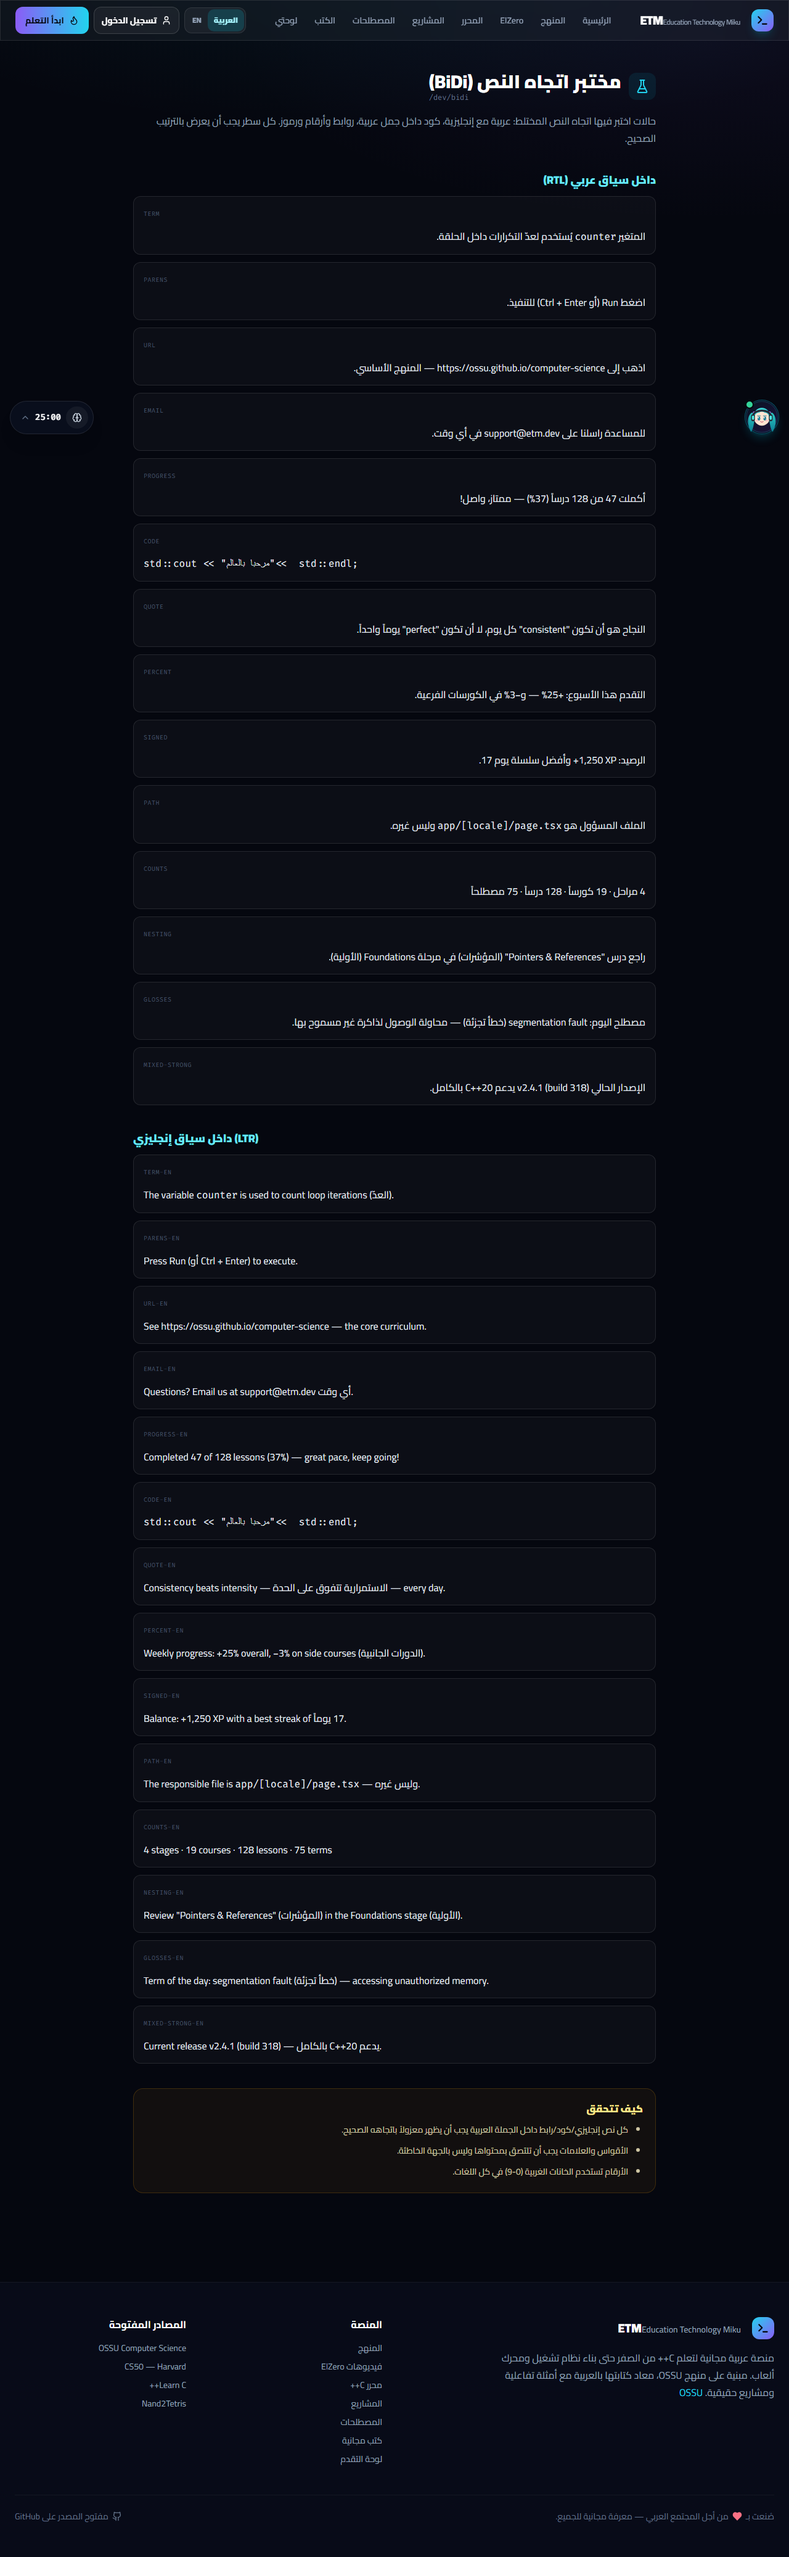
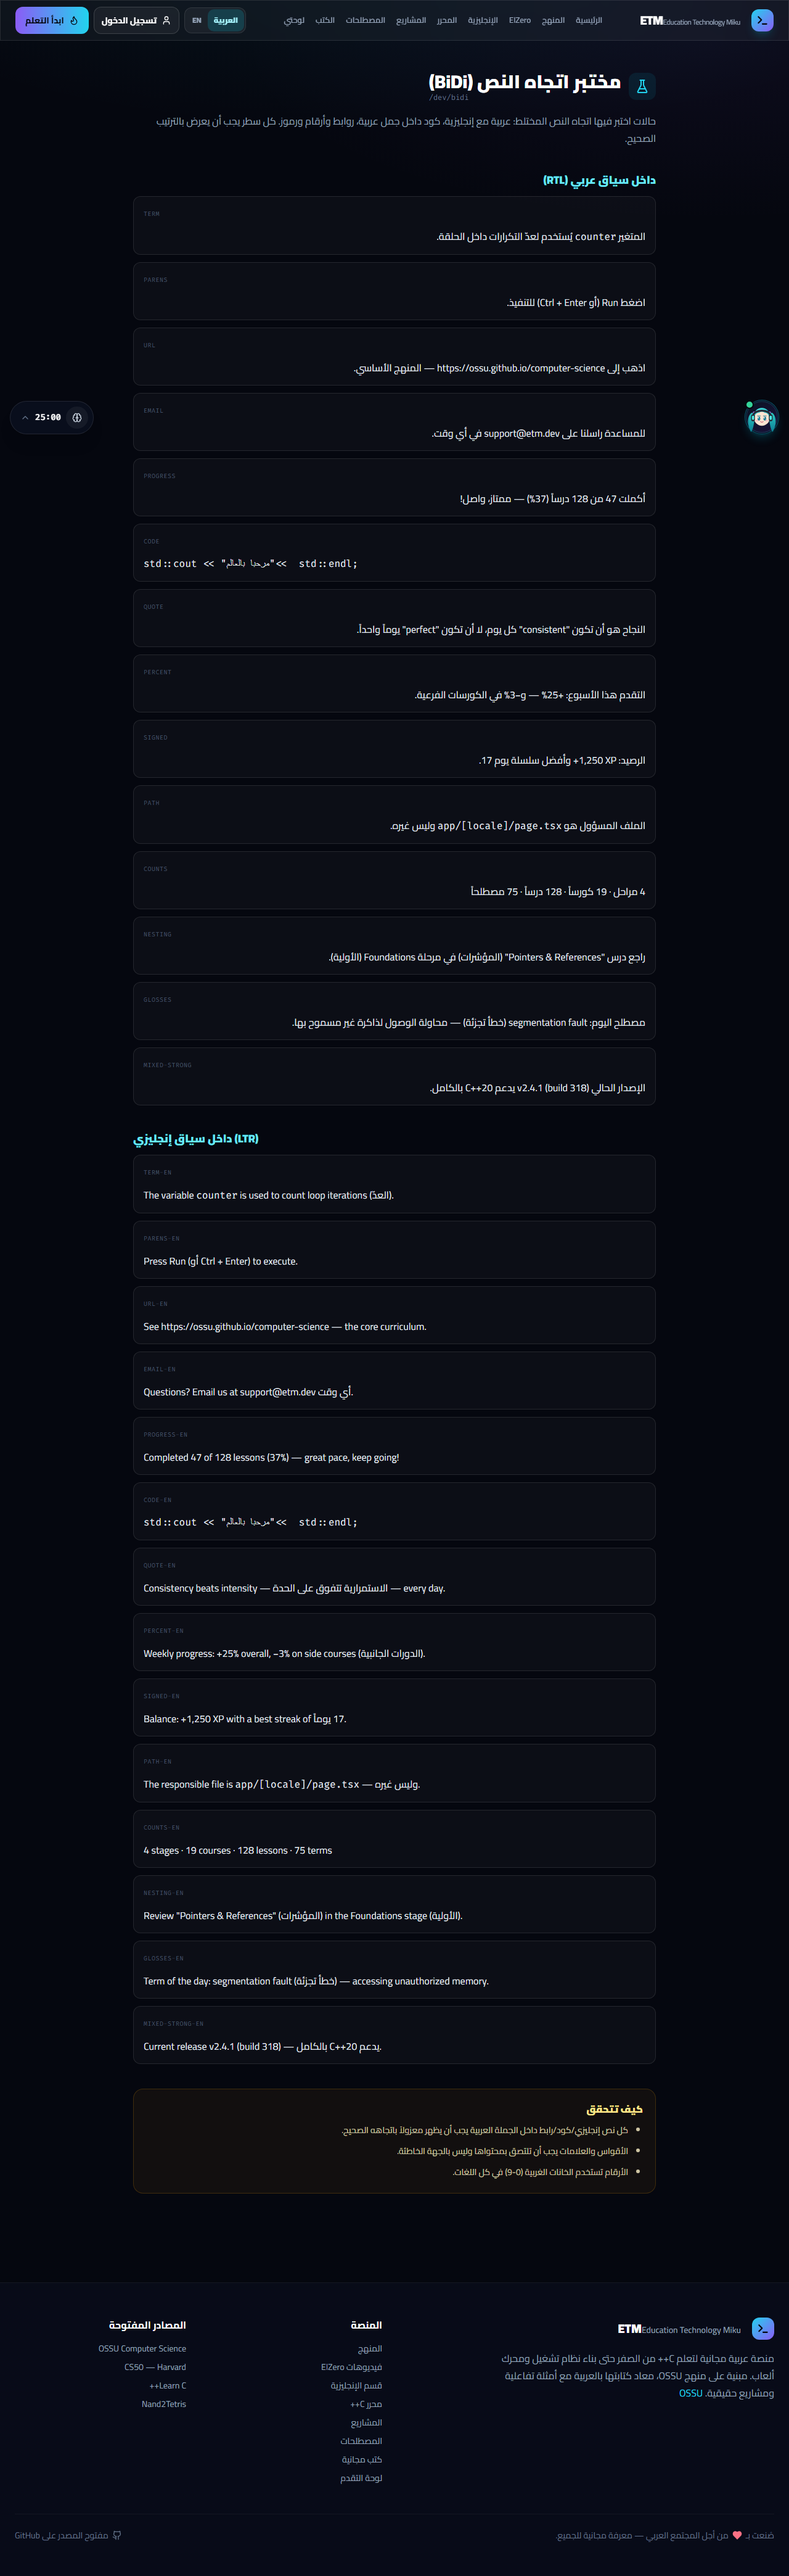
test(english): SRS unit tests, e2e coverage, a11y routes, wiped notes
11 new Leitner derivations cases (39/39 total), e2e spec for the nav
entry, hub (ar+en), review empty state; a11y spec now covers
/english and /english/review; delete-my-data test seeds and asserts
etm-english-notes-v1 is wiped; bidi screenshots regenerated with the
updated header/footer.

diff --git a/tests/unit/srs.test.ts b/tests/unit/srs.test.ts
@@ -1,0 +1,143 @@
+import { test } from "node:test";
+import assert from "node:assert/strict";
+import {
+  deriveSrs,
+  normalizeTerm,
+  srsDueCount,
+  SRS_INTERVALS,
+  SRS_MAX_BOX,
+} from "../../lib/english/srs.ts";
+import type { ProgressEvent } from "../../lib/progress/core.ts";
+
+let counter = 0;
+function event(partial: Partial<ProgressEvent> & Pick<ProgressEvent, "track" | "type" | "at">): ProgressEvent {
+  counter += 1;
+  return {
+    id: `e${counter}`,
+    v: 2,
+    payload: {},
+    ...partial,
+  };
+}
+
+const review = (at: string, term: string, known: boolean): ProgressEvent =>
+  event({
+    track: "english",
+    type: "term_review",
+    itemId: "001",
+    topic: "en-zero",
+    at,
+    payload: { term, known },
+  });
+
+const DAY = "2026-11-11";
+const iso = (dayKey: string, time = "12:00:00.000Z") => `${dayKey}T${time}`;
+
+test("normalizeTerm trims and collapses whitespace", () => {
+  assert.equal(normalizeTerm("  hello   world  "), "hello world");
+  assert.equal(normalizeTerm("\tnewline\n\ntest\t"), "newline test");
+  assert.equal(normalizeTerm(""), "");
+});
+
+test("empty history: nothing due, nothing seen", () => {
+  const s = deriveSrs([], DAY);
+  assert.equal(s.dueCount, 0);
+  assert.equal(s.seenTerms, 0);
+  assert.equal(s.terms.length, 0);
+});
+
+test("unrelated tracks and event types are ignored", () => {
+  const s = deriveSrs(
+    [
+      review(iso("2026-11-01"), "apple", true),
+      event({ track: "cpp", type: "term_review", at: iso("2026-11-01"), payload: { term: "apple", known: true } }),
+      event({ track: "english", type: "quiz_attempt", at: iso("2026-11-01"), payload: { score: 3, total: 4 } }),
+    ],
+    DAY,
+  );
+  assert.equal(s.seenTerms, 1);
+});
+
+test("first 'known' answer: box 1, due in 3 days, not due today", () => {
+  const s = deriveSrs([review(iso(DAY), "apple", true)], DAY);
+  assert.equal(s.terms[0].box, 1);
+  assert.equal(s.terms[0].due, false);
+  assert.equal(s.dueCount, 0);
+  assert.equal(s.terms[0].dueDayKey, "2026-11-14"); // SRS_INTERVALS[1] = 3 days
+});
+
+test("first 'missed' answer: box 0, due tomorrow", () => {
+  const s = deriveSrs([review(iso(DAY), "apple", false)], DAY);
+  assert.equal(s.terms[0].box, 0);
+  assert.equal(s.terms[0].misses, 1);
+  assert.equal(s.terms[0].dueDayKey, "2026-11-12");
+});
+
+test("intervals are applied per box after each review", () => {
+  const events = [
+    review(iso("2026-10-01"), "apple", true), // box 0 -> 1, due +3d = 2026-10-04
+    review(iso("2026-10-04"), "apple", true), // box 1 -> 2, due +7d = 2026-10-11
+    review(iso("2026-10-11"), "apple", true), // box 2 -> 3, due +16d = 2026-10-27
+  ];
+  const s = deriveSrs(events, "2026-11-11");
+  assert.equal(s.terms[0].box, 3);
+  assert.equal(s.terms[0].dueDayKey, "2026-10-27"); // SRS_INTERVALS[3] = 16 days
+  assert.equal(s.dueCount, 1); // overdue counts
+});
+
+test("miss resets a high box back to 0", () => {
+  const events = [
+    review(iso("2026-09-01"), "apple", true),
+    review(iso("2026-09-02"), "apple", true),
+    review(iso("2026-09-05"), "apple", true),
+    review(iso(DAY), "apple", false),
+  ];
+  const s = deriveSrs(events, DAY);
+  assert.equal(s.terms[0].box, 0);
+  assert.equal(s.terms[0].misses, 1);
+  assert.equal(s.terms[0].dueDayKey, "2026-11-12");
+});
+
+test("replay order does not depend on input order (sorted by at, id)", () => {
+  const a = [
+    review(iso("2026-11-01"), "apple", true),
+    review(iso("2026-11-03"), "apple", false),
+  ];
+  const shuffled = [...a].reverse();
+  const s1 = deriveSrs(a, DAY);
+  const s2 = deriveSrs(shuffled, DAY);
+  assert.equal(s1.terms[0].box, s2.terms[0].box);
+  assert.equal(s1.terms[0].dueDayKey, s2.terms[0].dueDayKey);
+  assert.equal(s1.terms[0].misses, 1); // miss came last chronologically
+});
+
+test("max box is clamped at SRS_MAX_BOX", () => {
+  const events: ProgressEvent[] = [];
+  let t = Date.parse("2026-01-01T00:00:00Z");
+  for (let i = 0; i < 10; i += 1) {
+    events.push(review(new Date(t).toISOString(), "apple", true));
+    t += SRS_INTERVALS[Math.min(i, SRS_INTERVALS.length - 1)] * 86_400_000;
+  }
+  const s = deriveSrs(events, DAY);
+  assert.equal(s.terms[0].box, SRS_MAX_BOX);
+  assert.ok(s.terms[0].seen >= 8);
+});
+
+test("srsDueCount returns the number of due terms", () => {
+  const events = [
+    review(iso("2026-11-01"), "overdue", true),   // due from 2026-11-02
+    review(iso(DAY), "fresh", true),              // due tomorrow
+  ];
+  assert.equal(srsDueCount(events, DAY), 1);
+});
+
+test("whitespace inside a term is normalized to a single space", () => {
+  const events = [
+    review(iso(DAY), "phrasal   verb", true),
+    review(iso(DAY), "phrasal verb", false),
+  ];
+  const s = deriveSrs(events, DAY);
+  assert.equal(s.seenTerms, 1);
+  assert.equal(s.terms[0].misses, 1);
+  assert.equal(s.terms[0].box, 0);
+});

diff --git a/tests/e2e/english.spec.ts b/tests/e2e/english.spec.ts
@@ -1,0 +1,62 @@
+import { test, expect } from "@playwright/test";
+import { seedMikuDone } from "./helpers/ui";
+
+const COURSE_EN = ["English from Zero", "Grammar", "Phonetics", "Listening", "Conversation"];
+
+test.describe("English section (Phase 4)", () => {
+  test("nav shows الإنجليزية on the Arabic locale and English on /en", async ({ page }) => {
+    seedMikuDone(page);
+    await page.goto("/", { waitUntil: "domcontentloaded" });
+    await expect(
+      page.locator('header a[href="/english"]').first(),
+      "Arabic header must link to /english with the label الإنجليزية"
+    ).toContainText("الإنجليزية");
+
+    await page.goto("/en", { waitUntil: "domcontentloaded" });
+    await expect(
+      page.locator('header a[href="/en/english"]').first(),
+      "English header must link to /en/english with the label English"
+    ).toContainText("English");
+  });
+
+  test("/en/english hub renders courses, suggested path, sync notice and credit", async ({ page }) => {
+    seedMikuDone(page);
+    await page.goto("/en/english", { waitUntil: "domcontentloaded" });
+
+    for (const course of COURSE_EN) {
+      await expect(page.getByText(course, { exact: true }).first()).toBeVisible();
+    }
+
+    // Suggested path section (channel's own ordering)
+    await expect(page.getByRole("heading", { name: /Suggested path/i })).toBeVisible();
+
+    // Videos have not been imported yet in this environment — the sync notice shows.
+    await expect(page.getByText(/syncing the videos/i)).toBeVisible();
+
+    // Course cards link to the known channel playlists.
+    await expect(
+      page.locator('a[href*="PLp22-4PivYmIFAnru_L7fnMhSV5YffLTZ"]').first()
+    ).toBeVisible();
+
+    // 4.7 credit, present on every English page
+    await expect(page.getByText(/zAmericanEnglish on YouTube/).first()).toBeVisible();
+
+    // Footer links to the section as well
+    await expect(page.locator('footer a[href="/en/english"]').first()).toBeVisible();
+  });
+
+  test("/english hub (Arabic locale) renders Arabic labels and credit", async ({ page }) => {
+    seedMikuDone(page);
+    await page.goto("/english", { waitUntil: "domcontentloaded" });
+    await expect(page.getByRole("heading", { name: /قسم الإنجليزية/ })).toBeVisible();
+    await expect(page.getByText(/يتم الآن مزامنة/)).toBeVisible();
+    await expect(page.getByText(/zAmericanEnglish on YouTube/).first()).toBeVisible();
+  });
+
+  test("/en/english/review renders the empty state when nothing is due", async ({ page }) => {
+    seedMikuDone(page);
+    await page.goto("/en/english/review", { waitUntil: "domcontentloaded" });
+    await expect(page.getByText(/No terms due today/i)).toBeVisible();
+    await expect(page.getByRole("link", { name: /Back to the English section/i })).toBeVisible();
+  });
+});

diff --git a/tests/e2e/progress.spec.ts b/tests/e2e/progress.spec.ts
@@ -2,6 +2,7 @@ import { test, expect } from "@playwright/test";
 import { seedMikuDone } from "./helpers/ui";
 
 const V2_KEY = "etm-progress-v2";
+const ENGLISH_NOTES_KEY = "etm-english-notes-v1";
 
 test.describe("Progress persistence", () => {
   test("lesson marked complete stays complete after reload", async ({ page }) => {
@@ -139,6 +140,14 @@ test.describe("Progress persistence", () => {
     await expect(page.getByRole("button", { name: /Completed/i })).toBeVisible();
 
     page.once("dialog", (dialog) => dialog.accept());
+    await page.evaluate(
+      (key) =>
+        window.localStorage.setItem(
+          key,
+          JSON.stringify({ "001": { text: "secret note", updatedAt: new Date().toISOString() } })
+        ),
+      ENGLISH_NOTES_KEY
+    );
     await page.goto("/en/dashboard", { waitUntil: "domcontentloaded" });
     await page.getByRole("button", { name: /Delete my data/i }).click();
 
@@ -149,5 +158,7 @@ test.describe("Progress persistence", () => {
     expect(parsed.events ?? []).toEqual([]);
     const legacy = await page.evaluate(() => window.localStorage.getItem("etm-progress-v1"));
     expect(legacy).toBeNull();
+    const notes = await page.evaluate((key) => window.localStorage.getItem(key), ENGLISH_NOTES_KEY);
+    expect(notes).toBeNull();
   });
 });

diff --git a/tests/e2e/a11y.spec.ts b/tests/e2e/a11y.spec.ts
@@ -7,6 +7,8 @@ const PAGES = [
   ["lesson", "/learn/stage-1/cpp-basics/hello-world"],
   ["elzero-index", "/elzero"],
   ["elzero-video", "/elzero/001"],
+  ["english-index", "/english"],
+  ["english-review", "/english/review"],
   ["playground", "/playground"],
   ["books", "/books"],
   ["dashboard", "/dashboard"],
